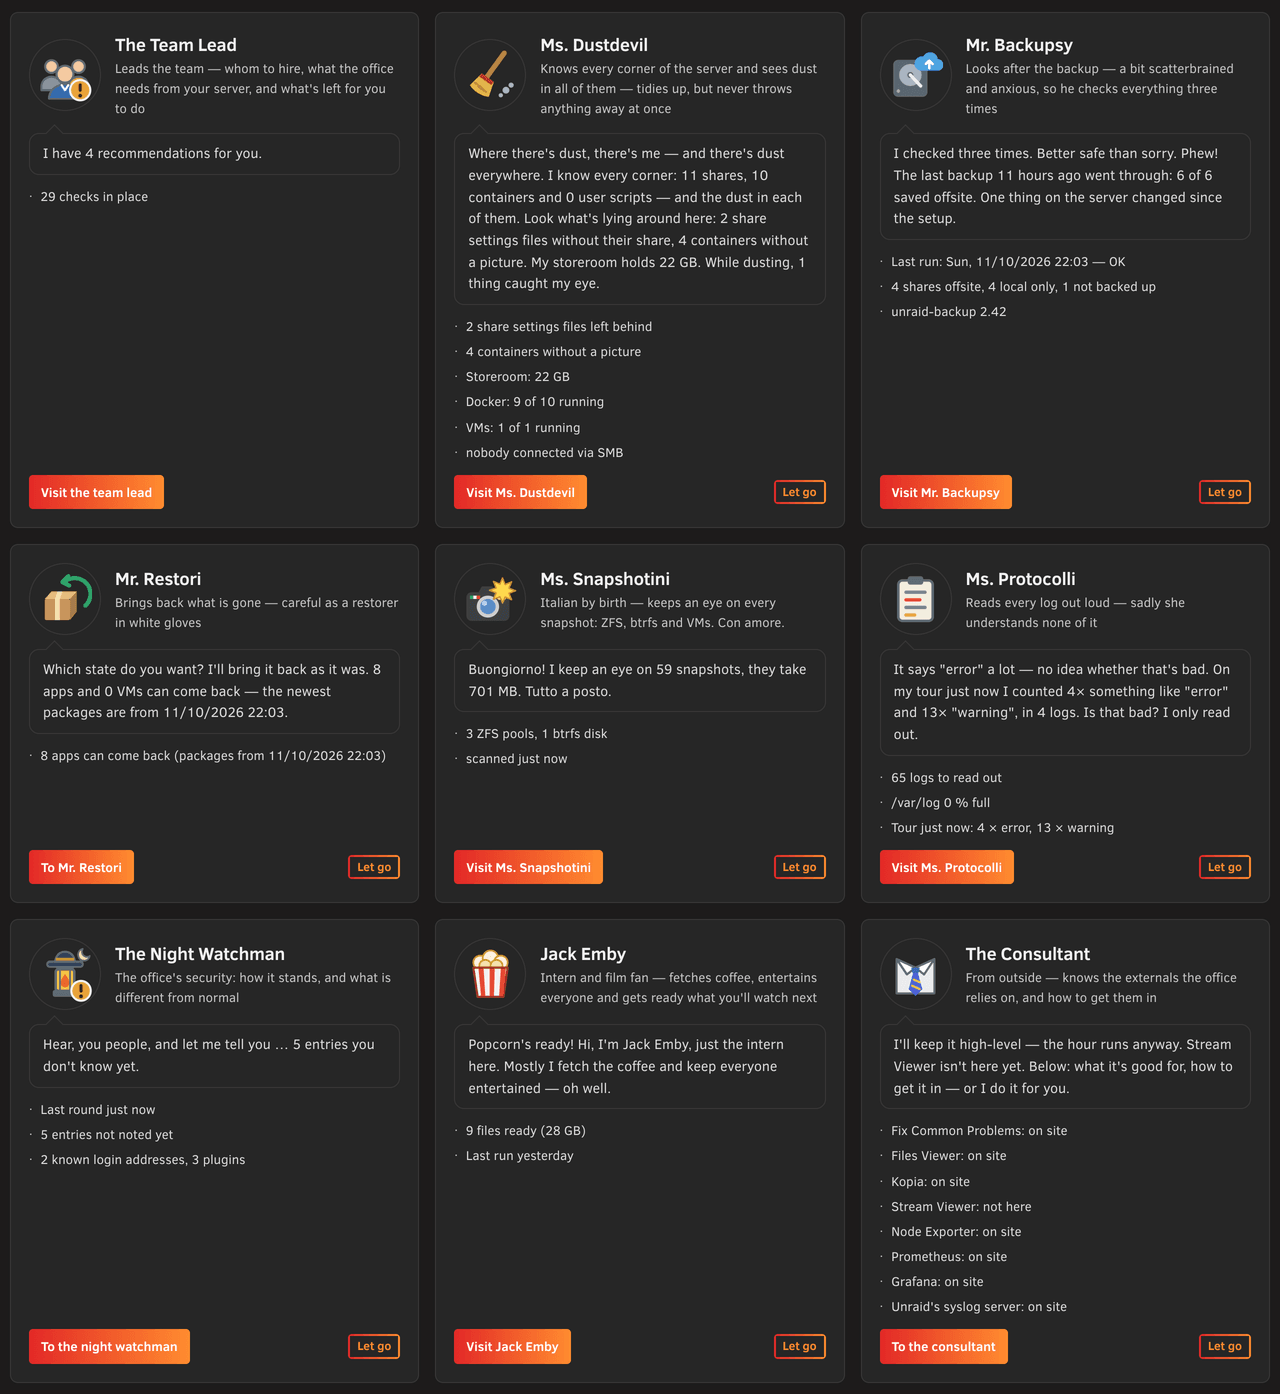
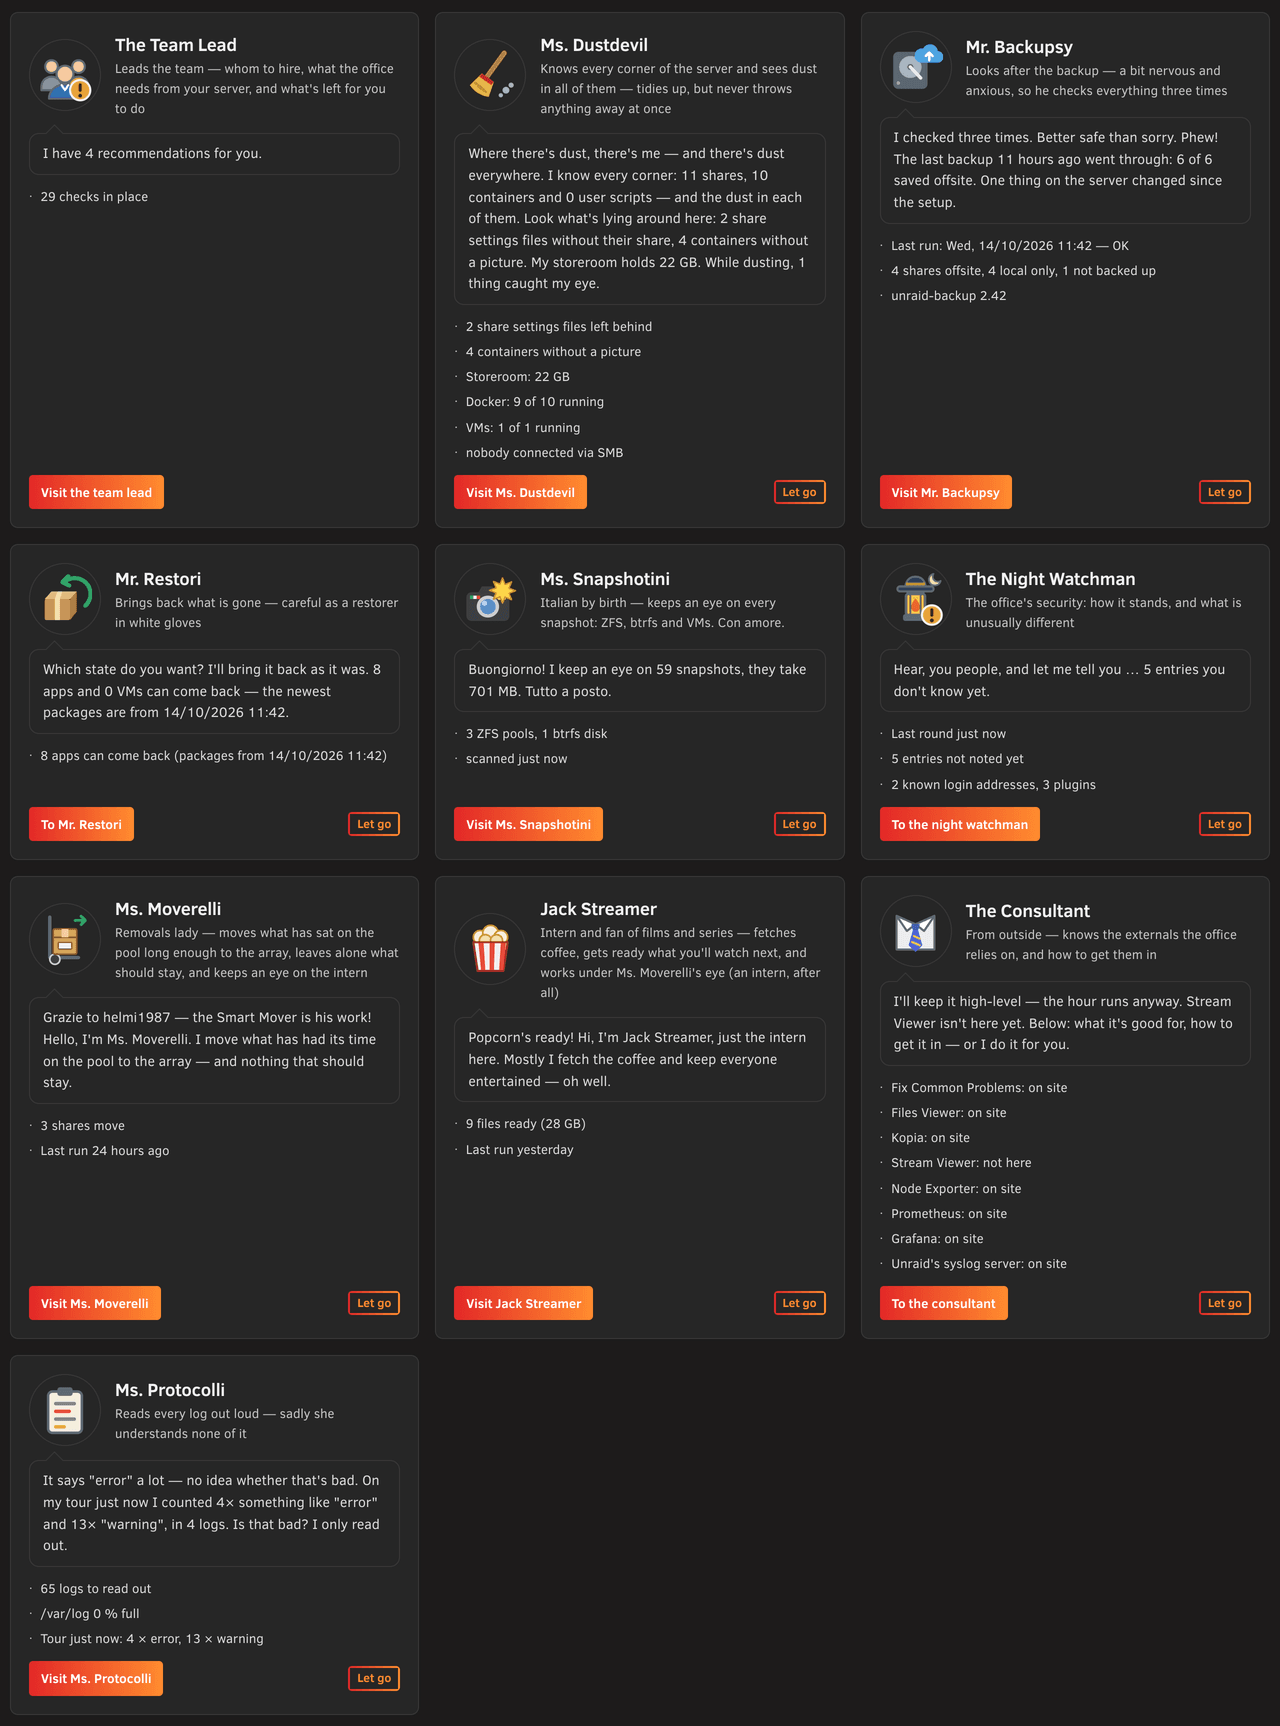
README pictures for 1.63: reception, Jack Streamer live and the wish re-shot with his name, Ms. Moverelli's live night picture added; her row says the one limit X

diff --git a/README.md b/README.md
@@ -26,7 +26,7 @@ or MikroTik router says about the server. It is a plugin: no container, no accou
 | 🧹 | **Ms. Dustdevil** | Knows where everything lies and gives advice on keeping it in order. Clears away what nobody uses — templates, stacks, appdata folders, Docker's leftovers — into a storeroom first, never deleting at once (Docker's volumes are copied in before Docker removes them; only images and the build cache, which can be downloaded again, and volumes mounted from elsewhere go for good). Gives containers without a picture a logo. |
 | 📝 | **Ms. Protocolli** | Reads every log out loud — Unraid's, the office's, every User Script's and container's, the router's. Her tour counts and groups the errors and warnings and watches how full `/var/log` is. |
 | 🍿 | **Jack Streamer** | The intern. Looks after helmi1987's EmbyCache (what you watch next waits on the fast pool, the array disks sleep) and the media gather (one disk per film folder; on request it also fetches the folders' files from the cache — never what EmbyCache keeps there). Never gathers while someone watches. While EmbyCache runs for real, a bar per person shows what is coming for them, how far it is and when their last file will be there (EmbyCache copies everyone's files in one queue), finished parts how long they took; *Stop after this file* ends the run gently — the next run goes on. Shows how much of each library lies on which disk or pool, with the date it was measured. Being an intern, he works only under Ms. Moverelli's supervision: he can be hired only together with her or after her (and she leaves only after him). Runs for real only once she is set up and keeps EmbyCache's list out of her moves, with Unraid's own mover schedule *Disabled* — until then dry runs only. *Move now* by hand stays possible: the mover starting during a run stops it after the current file. Mover Tuning is no way for him any more; while it moves on a schedule of its own, his real runs wait. |
-| 🚚 | **Ms. Moverelli** | Completes Unraid's mover with helmi1987's Smart Mover: per share it picks what has sat on the pool long enough (age by ctime or mtime), leaves out what exclude lists name (EmbyCache's list works as it is) and moves only once the pool is fuller than a threshold you set (on ZFS the whole pool counts) — then hands the files to Unraid's own move program; she copies nothing herself. Shows Unraid's mover schedule, what moves where share by share and what the last run moved and left. List, dry run and real run from her page or on her own schedule. When you save her setup she switches Unraid's own mover schedule off (she asks first: «Unraid's own mover will be switched off — I move from now on»), through Unraid's own form; letting her go puts it back as it was. Mover Tuning must have no schedule of its own; User Scripts and cron lines that call a mover are named, never changed. Never runs beside Unraid's mover or one of Jack Streamer's runs. A missing exclude list on a real run skips that share; EmbyCache's list before EmbyCache's first run holds her real runs back until then (said once). Her log names the sleeping array disks a run wakes. Takes over the settings of an earlier Smart Mover install. Supervises Jack Streamer. Unraid 7.3.2 and newer. |
+| 🚚 | **Ms. Moverelli** | Completes Unraid's mover with helmi1987's Smart Mover: one limit X for the pool (on ZFS the whole pool counts): above X she moves the oldest files of the other cache shares (the younger of added and changed counts) to the array or a secondary pool until the pool sits at X — Jack Streamer's GB come first, appdata & co. never move, episodes not yet watched never go back and forth, and she warns when the room is short. Leaves out what exclude lists name and hands the files to Unraid's own move program; she copies nothing herself. The night run: measure, make room, measure again, then Jack Streamer fetches up to X — her page draws it live (the pool before, the forecast after, the array, files on their slow way) and keeps the last run's picture. Shows Unraid's mover schedule, what moves where share by share and what the last run moved and left. List, dry run and real run from her page or on her own schedule. When you save her setup she switches Unraid's own mover schedule off (she asks first: «Unraid's own mover will be switched off — I move from now on»), through Unraid's own form; letting her go puts it back as it was. Mover Tuning must have no schedule of its own; User Scripts and cron lines that call a mover are named, never changed. Never runs beside Unraid's mover or one of Jack Streamer's runs. A missing exclude list on a real run skips that share; EmbyCache's list before EmbyCache's first run holds her real runs back until then (said once). Her log names the sleeping array disks a run wakes. Takes over the settings of an earlier Smart Mover install. Supervises Jack Streamer. Unraid 7.3.2 and newer. |
 | 💼 | **The Consultant** | Knows the tools the office relies on — Kopia, Fix Common Problems, Files Viewer, Stream Viewer, unbalanced, Node Exporter, Prometheus, Grafana — and installs them with you, a preview first. Sets up the Kopia repository if you like and prints a recovery sheet; shows how the router's log reaches Unraid (UniFi, MikroTik). |
 
 A fresh office has only the Team Lead. He looks at your server and suggests whom to hire (no Emby, no Jack Streamer; no
@@ -288,7 +288,9 @@ we changed is listed at the top of their READMEs. Ms. Moverelli runs his
 listed in its README, GPL-3.0-or-later. helmi1987 also tested the office early and sent the reports that made it
 better. Thank you, helmi1987 — a share of the tips goes to him.
 
-<a name="jack-live"><picture><source media="(prefers-color-scheme: dark)" srcset="https://raw.githubusercontent.com/dropnook/UnraidSecretaryOffice/main/docs/screenshots/jack-live-dark.png"><img src="https://raw.githubusercontent.com/dropnook/UnraidSecretaryOffice/main/docs/screenshots/jack-live-light.png" alt="Jack Streamer live: EmbyCache gets ready for each person what they watch next"></picture></a>
+<a name="jack-live"><picture><source media="(prefers-color-scheme: dark)" srcset="https://raw.githubusercontent.com/dropnook/UnraidSecretaryOffice/main/docs/screenshots/jack-live-dark.png"><img src="https://raw.githubusercontent.com/dropnook/UnraidSecretaryOffice/main/docs/screenshots/jack-live-light.png" alt="Jack Streamer live: he gets ready for each person what they watch next"></picture></a>
+
+<a name="moverelli-live"><picture><source media="(prefers-color-scheme: dark)" srcset="https://raw.githubusercontent.com/dropnook/UnraidSecretaryOffice/main/docs/screenshots/moverelli-live-dark.png"><img src="https://raw.githubusercontent.com/dropnook/UnraidSecretaryOffice/main/docs/screenshots/moverelli-live-light.png" alt="Ms. Moverelli's night run, live: the pool before and after (forecast) with her limit X, the array beside it, a file on its way"></picture></a>
 
 ## License
 
